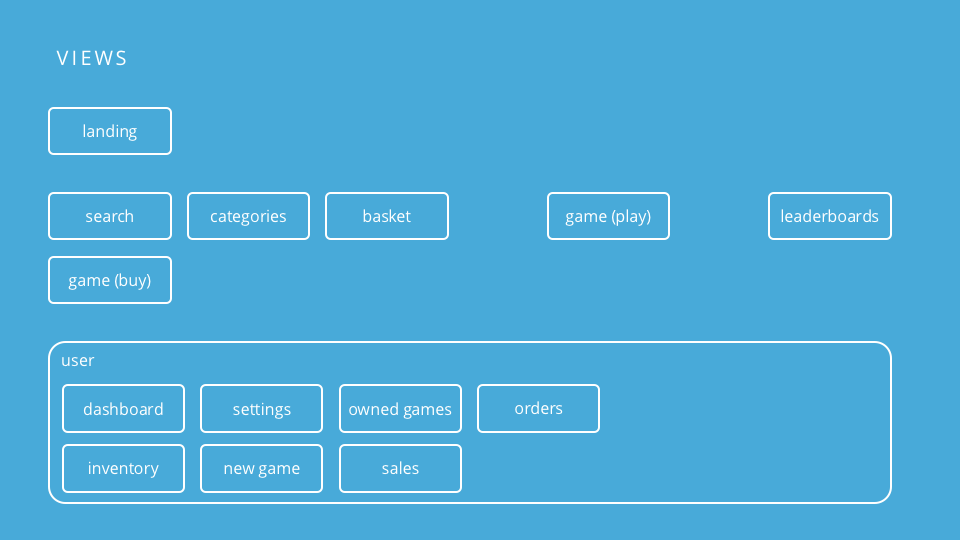
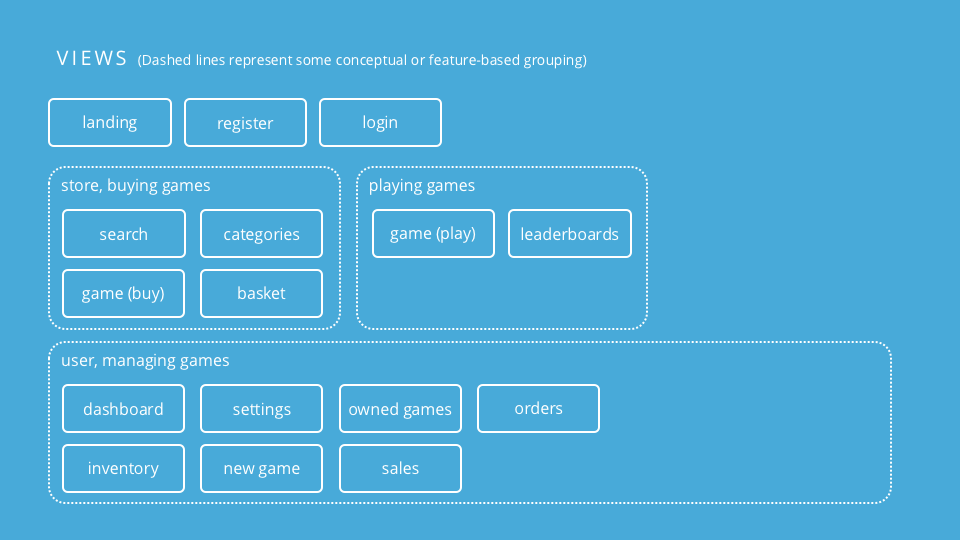
Updated models and views descriptions and pictures

diff --git a/README.md b/README.md
@@ -55,6 +55,14 @@ The site has the following views:
 
   Featured games, suggestions, etc.
 
+- Register
+
+  Register a new user by making a new user or using e.g. Facebook account
+
+- Login
+
+  Login to the service
+
 - Search
 
   Search based on game properties, e.g. price, category
@@ -129,7 +137,7 @@ The backend includes the following object models:
 
 - User
 
-  Represents a user of the system. All users are players, but also developers.
+  Represents a user of the system. All users are players, but also developers. This model extends the default Django User model which already includes the basic authentication-related things, and the naming of this model is also thus likely to change a bit to not conflict with Django.
 
 - Game
 
